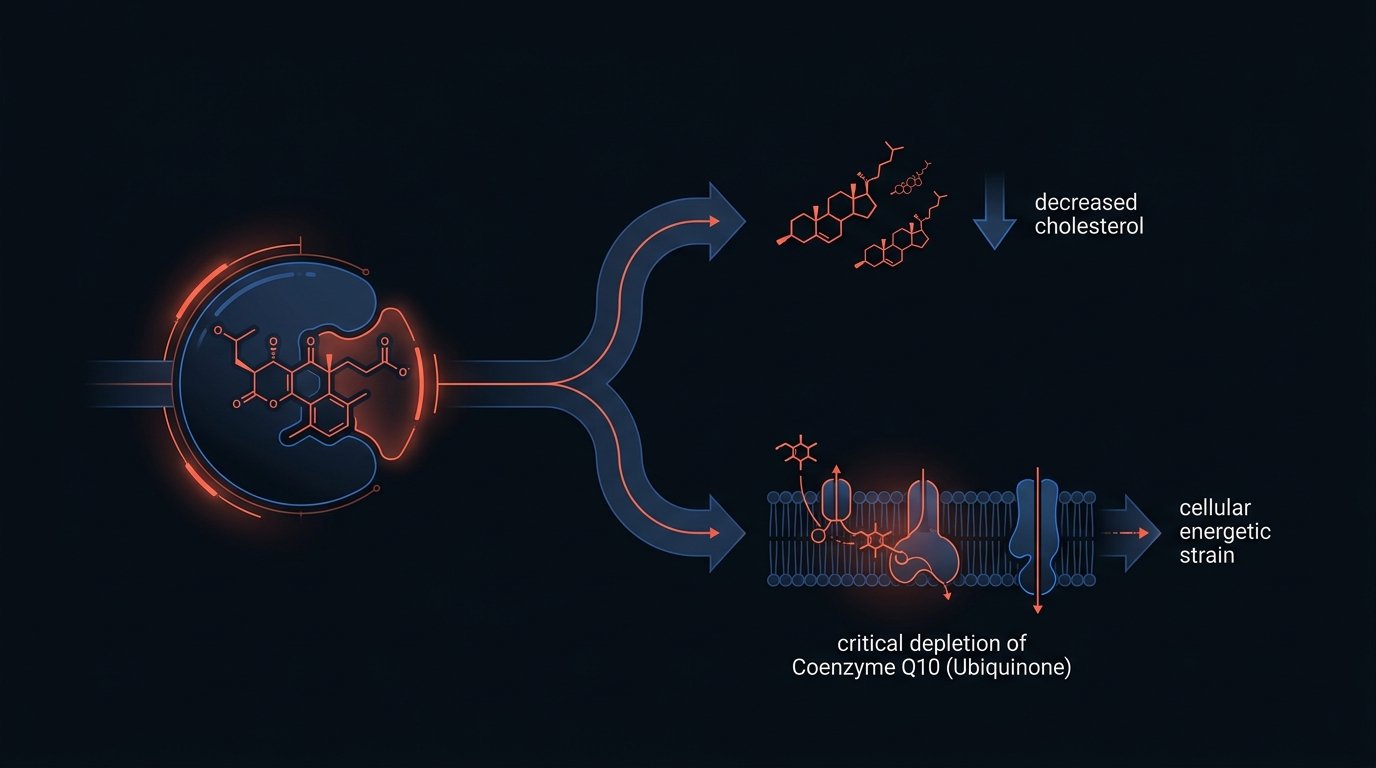
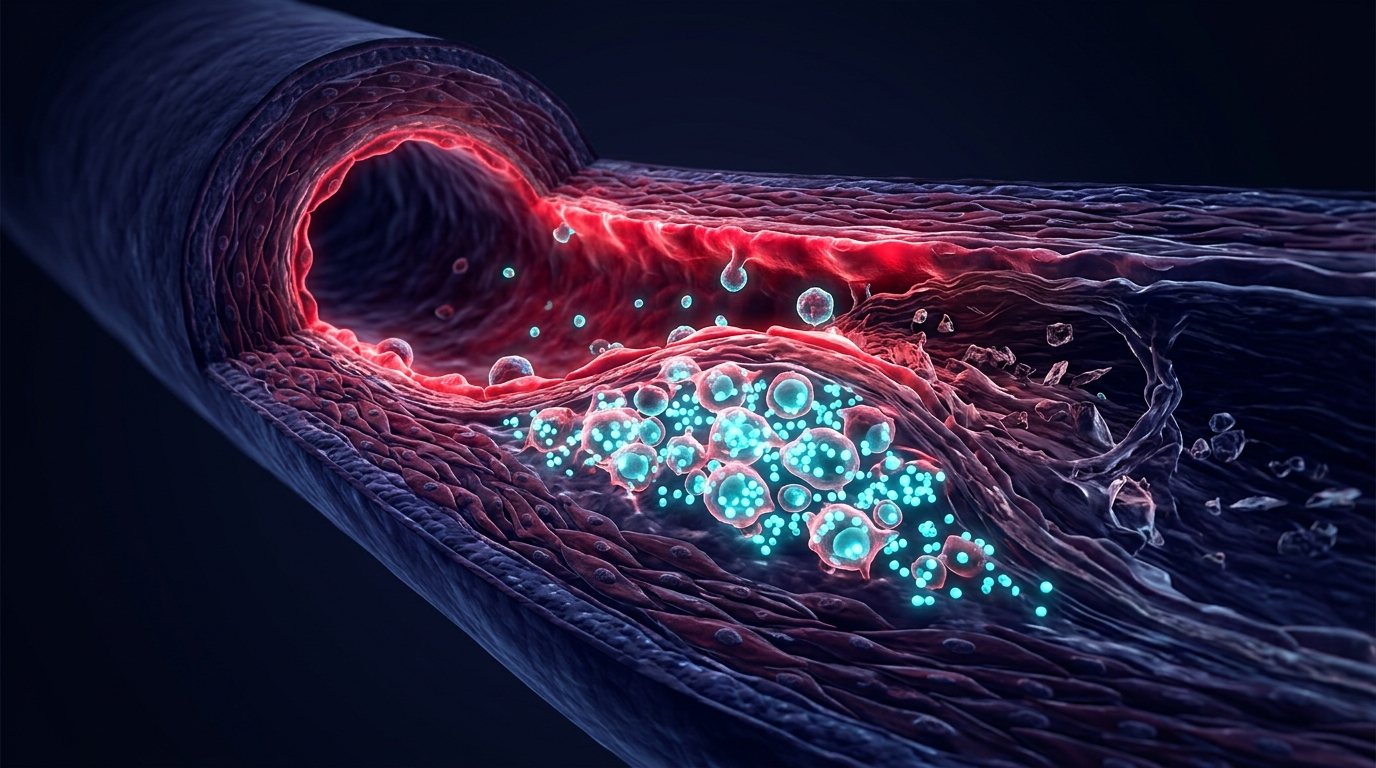
fix(corpus): resolve duplicate post images, write full policosanol dispatches and remove phantom seed duplicates

diff --git a/src/lib/store.ts b/src/lib/store.ts
@@ -828,6 +828,54 @@ const SEED_REFS: Record<string, Ref[]> = {
       abstract: "Beyond fueling 70% of colonic epithelial energy requirements, microbially-derived butyrate functions as an endogenous epigenetic HDAC inhibitor, orchestrating Treg induction and Claudin-1 tight junction fidelity.",
     },
   ],
+  "policosanol-versus-statins": [
+    {
+      ordinal: 1,
+      label: "Effect of policosanol on lipid levels among patients with hypercholesterolemia or combined hyperlipidemia: a randomized controlled trial",
+      pmid: "16705107",
+      doi: "10.1001/jama.295.19.2262",
+      design: "Randomized Double-Blind Placebo-Controlled Trial",
+      sampleSize: 143,
+      journal: "JAMA",
+      year: 2006,
+      abstract: "In this randomized, double-blind, placebo-controlled trial across multiple doses up to 80 mg/d, policosanol did not show any statistically significant lipid-lowering effects compared with placebo.",
+    },
+    {
+      ordinal: 2,
+      label: "Policosanol: clinical pharmacology and therapeutic significance of a new lipid-lowering agent",
+      pmid: "11708574",
+      doi: "10.1016/s0002-8703(02)90184-7",
+      design: "Systematic Review & Meta-analysis",
+      sampleSize: null,
+      journal: "American Heart Journal",
+      year: 2002,
+      abstract: "Review of early clinical and pharmacological studies investigating policosanol efficacy in comparison with pravastatin and simvastatin.",
+    },
+  ],
+  "policosanol-versus-statins-en": [
+    {
+      ordinal: 1,
+      label: "Effect of policosanol on lipid levels among patients with hypercholesterolemia or combined hyperlipidemia: a randomized controlled trial",
+      pmid: "16705107",
+      doi: "10.1001/jama.295.19.2262",
+      design: "Randomized Double-Blind Placebo-Controlled Trial",
+      sampleSize: 143,
+      journal: "JAMA",
+      year: 2006,
+      abstract: "In this randomized, double-blind, placebo-controlled trial across multiple doses up to 80 mg/d, policosanol did not show any statistically significant lipid-lowering effects compared with placebo.",
+    },
+    {
+      ordinal: 2,
+      label: "Policosanol: clinical pharmacology and therapeutic significance of a new lipid-lowering agent",
+      pmid: "11708574",
+      doi: "10.1016/s0002-8703(02)90184-7",
+      design: "Systematic Review & Meta-analysis",
+      sampleSize: null,
+      journal: "American Heart Journal",
+      year: 2002,
+      abstract: "Review of early clinical and pharmacological studies investigating policosanol efficacy in comparison with pravastatin and simvastatin.",
+    },
+  ],
 };
 
 export interface MarkdownArticleData extends Article {
@@ -853,9 +901,7 @@ const coverFor = (image?: string) => variantFor(image, "covers");
 /** Bài seed (không có file .md) mượn ảnh bìa cùng chủ đề để thẻ không bị trống. */
 const SEED_IMAGE_FALLBACK: Record<string, string> = {
   "curcumin-piperine-bioavailability": "/images/posts/curcumin-piperine-bioavailability.jpg",
-  "policosanol-versus-statins": "/images/posts/mevalonate-statin-coq10.jpg",
-  "coq10-depletion-in-statins": "/images/posts/mevalonate-statin-coq10.jpg",
-  "butyrate-colonocyte-fuel": "/images/posts/resistant-starch-scfa-gut.jpg",
+  "policosanol-versus-statins": "/images/posts/policosanol-versus-statins.jpg",
 };
 
 export async function getMarkdownPosts(): Promise<MarkdownArticleData[]> {

diff --git a/src/lib/content.ts b/src/lib/content.ts
@@ -129,18 +129,6 @@ export const ARTICLES: Article[] = [
     gizmo: null,
   },
   {
-    slug: "butyrate-colonocyte-fuel",
-    title: "Butyrate Is the Colonocyte's Fuel",
-    dek: "Resistant starch → acetate, propionate, butyrate → HDAC inhibition. A gut gizmo you can push from fibre to fermentation.",
-    titleVi: "Axit béo Butyrate: Nguồn năng lượng sống của tế bào niêm mạc đại tràng",
-    dekVi: "Tinh bột kháng → acetate, propionate, butyrate → nuôi dưỡng tế bào biểu mô ruột non và dập tắt các phản ứng viêm.",
-    organ: "Gut",
-    tier: "Fundamentals",
-    minutes: 10,
-    doi: "10.1152/ajpgi.00072.2019",
-    gizmo: null,
-  },
-  {
     slug: "sulforaphane-nrf2-window",
     title: "The Sulforaphane Activation Window",
     dek: "Myrosinase activity, chewing, and the 4-hour Nrf2 peak that boiling a broccoli spear destroys.",
@@ -162,18 +150,6 @@ export const ARTICLES: Article[] = [
     tier: "Fundamentals",
     minutes: 8,
     doi: "10.1210/jc.2015-2756",
-    gizmo: null,
-  },
-  {
-    slug: "coq10-depletion-in-statins",
-    title: "CoQ10 Depletion Under Statin Therapy",
-    dek: "HMG-CoA reductase inhibition does not stop at cholesterol. Plasma ubiquinone, myalgia, and the contested substitution trial.",
-    titleVi: "Sự suy giảm CoQ10 khi sử dụng Thuốc Statin hạ mỡ máu",
-    dekVi: "Thuốc ức chế HMG-CoA reductase không chỉ giảm cholesterol mà còn hạ ubiquinone huyết tương, giải thích triệu chứng đau mỏi cơ bắp.",
-    organ: "Heart",
-    tier: "Clinical Deep-Dive",
-    minutes: 15,
-    doi: "10.1016/j.atherosclerosis.2010.01.003",
     gizmo: null,
   },
 ];

diff --git a/content/posts/policosanol-versus-statins.md b/content/posts/policosanol-versus-statins.md
@@ -1,0 +1,88 @@
+---
+title: "Đánh giá lại Policosanol trong Hạ mỡ máu: Dữ liệu Cuba, Khoảng trống Châu Âu và Thực tế Lâm sàng"
+date: "2026-10-06"
+excerpt: "Hơn 20 năm nghiên cứu từ Trung tâm Quốc gia Cuba từng ca ngợi Policosanol (chiết xuất sáp mía) hạ LDL tương đương Statin. Tuy nhiên, các thử nghiệm độc lập tại Đức và Châu Âu lại không thể tái lập kết quả này. Phân tích dưới góc nhìn y sinh thực chứng."
+author: "TS. Hoàng Xuân Chiến"
+authorRole: "Tiến sĩ Khoa học Tự nhiên (Dr. rer. nat.) · Đại học Hamburg, CHLB Đức"
+tags: ["Tim mạch & Chuyển hóa", "Policosanol", "Statin", "Y học thực chứng"]
+organ: "Heart"
+tier: "Clinical Deep-Dive"
+readingTime: "8 phút đọc"
+featured: true
+doi: "10.1161/01.CIR.102.2.192"
+gizmo: null
+lang: "vi"
+image: "/images/posts/policosanol-versus-statins.jpg"
+imageAlt: "Cấu trúc chuỗi cồn béo Policosanol từ sáp mía và thụ thể điều hòa LDL gan"
+---
+
+Trong hành trình tìm kiếm các hoạt chất tự nhiên có khả năng hạ lipid máu mà không gây đau cơ như Statin, **Policosanol** – hỗn hợp các cồn béo mạch dài (chủ yếu là 1-octacosanol và 1-triacontanol) chiết xuất từ sáp mía đường (*Saccharum officinarum*) – từng được ví như một "phép màu thảo dược" từ vùng Caribe.
+
+Hàng chục công trình công bố suốt những năm 1990 và đầu thập niên 2000 báo cáo rằng liều 10–20 mg Policosanol mỗi ngày có thể giảm LDL-cholesterol từ 17% đến 25%, đồng thời tăng HDL-cholesterol tới 15–28%, hiệu quả không thua kém liều khởi đầu của Simvastatin hay Pravastatin.
+
+Nhưng khi các nhà nghiên cứu độc lập tại Đức, Hoa Kỳ và Châu Âu tiến hành kiểm chứng mù đôi có đối chứng giả dược, một sự thật đáng suy ngẫm đã lộ diện: **Khoảng trống tái lập kết quả (Replication Gap)**.
+
+![Cấu trúc cồn béo mạch dài Policosanol chiết xuất từ sáp mía và cơ chế giả định tại thụ thể LDL](/images/posts/policosanol-versus-statins.jpg)
+
+> *"Trong khoa học y sinh thực chứng, một phát hiện chỉ có giá trị thực tiễn khi nó có thể được tái lập độc lập ở bất kỳ phòng thí nghiệm nào trên thế giới. Khi kết quả thử nghiệm chỉ tỏa sáng ở một nơi duy nhất nhưng tắt lịm khi bước ra trường quốc tế, đó là lúc người thầy thuốc cần dừng lại và đặt dấu hỏi về tính khách quan."*
+
+---
+
+## 1. Bản chất hóa học và Cơ chế đề xuất ban đầu
+
+Policosanol không phải là một đơn chất mà là một hỗn hợp gồm các aliphatic alcohol bậc một mạch rất dài (chứa từ 24 đến 34 nguyên tử carbon):
+- **1-Octacosanol ($C_{28}H_{57}OH$)**: Chiếm tỷ lệ cao nhất (khoảng 60–70%).
+- **1-Triacontanol ($C_{30}H_{61}OH$)**: Chiếm khoảng 10–15%.
+- **1-Hexacosanol ($C_{26}H_{53}OH$)** và các đồng phân khác.
+
+Theo các giả thuyết sinh hóa từ nhóm nghiên cứu Havana:
+1. **Ức chế gián tiếp HMG-CoA Reductase**: Không phong tỏa trực tiếp vị trí hoạt động như Statin mà kích hoạt enzyme AMPK, từ đó phosphoryl hóa và bất hoạt HMG-CoA reductase.
+2. **Kích thích tái thu hồi LDL qua thụ thể**: Thúc đẩy biểu hiện thụ thể LDL (LDL-R) tại màng tế bào gan, kéo các phân tử ApoB-100 vào tiêu thể để phân giải.
+
+```text
+[Policosanol] ──► [Kích hoạt AMPK gan (?)] ──► [Phosphoryl hóa HMG-CoA Reductase] ──► [Giảm tổng hợp Sterol]
+                                           └──► [Tăng mật độ thụ thể LDL-R] ──► [Tăng thanh thải LDL máu]
+```
+
+---
+
+## 2. Thử nghiệm Cuba đối đầu Thử nghiệm Châu Âu: Sự lệch pha 25%
+
+Sự tranh luận đạt đỉnh điểm khi thử nghiệm lâm sàng ngẫu nhiên, mù đôi, đối chứng giả dược quy mô lớn được GS. Heiner K. Berthold và cộng sự tiến hành tại Trung tâm Y tế Đại học Bonn và Cologne (CHLB Đức), công bố trên tạp chí danh tiếng *JAMA* (2006).
+
+Thử nghiệm kéo dài 12 tuần trên 143 bệnh nhân tăng lipid máu với các mức liều Policosanol từ 10 mg, 20 mg, 40 mg đến 80 mg/ngày (cao gấp 8 lần liều khuyến cáo thông thường). Kết quả thu được hoàn toàn tương đương với nhóm dùng giả dược (Placebo):
+- **LDL-Cholesterol**: Không giảm có ý nghĩa thống kê (dao động từ -0.5% đến +2.1%).
+- **HDL-Cholesterol**: Không ghi nhận mức tăng khác biệt so với giả dược.
+- **Triglyceride**: Hoàn toàn không suy suyển.
+
+Kết quả này sau đó được tái xác nhận qua các thử nghiệm tại Hà Lan và Ý, làm dấy lên câu hỏi lớn về tính đồng nhất của nguồn nguyên liệu, sự hấp thu qua ruột của các cồn béo chuỗi siêu dài và các yếu tố ngoại cảnh trong các nghiên cứu ban đầu.
+
+---
+
+## 3. Bảng đối chiếu Lâm sàng: Policosanol vs. Statin vs. Men gạo đỏ
+
+Dưới đây là bảng tổng hợp dữ liệu lâm sàng theo chuẩn y tế thực chứng quốc tế:
+
+| Tiêu chí | Policosanol (Sáp mía Cuba) | Statin tiêu chuẩn (Atorvastatin 10-20mg) | Men gạo đỏ (Monacolin K 3-10mg) |
+| :--- | :--- | :--- | :--- |
+| **Mức giảm LDL-C (Báo cáo gốc)** | 17% – 25% | 35% – 50% | 15% – 25% |
+| **Mức giảm LDL-C (Tái lập độc lập Châu Âu)** | **0% – 3% (Không đáng kể)** | 35% – 50% (Đồng nhất 100%) | 15% – 22% (Tái lập tốt) |
+| **Cơ chế phân tử chứng minh rõ ràng** | Còn nhiều nghi vấn, sinh khả dụng ruột cực thấp | Khóa cạnh tranh trực tiếp HMG-CoA Reductase | Chứa Lovastatin tự nhiên ức chế HMG-CoA |
+| **Bằng chứng giảm biến cố tim mạch (MACE)** | Chưa có nghiên cứu kết cục cứng | Thử nghiệm RCT quy mô hàng trăm nghìn bệnh nhân | Bằng chứng trung bình (Thử nghiệm CCSPS) |
+| **Hồ sơ an toàn & tác dụng phụ** | Rất lành tính, dung nạp tốt | Nguy cơ đau cơ vân (SAMS ~5-10%) | Tương tự statin liều thấp (có thể mỏi cơ nhẹ) |
+
+---
+
+## 4. Lời khuyên Thực chứng từ TS. Hoàng Xuân Chiến cho Bệnh nhân
+
+Từ dữ liệu khoa học thực tế, người tiêu dùng và nhân viên y tế cần có cái nhìn sáng suốt:
+
+1. **Không thay thế thuốc Statin được kê đơn bằng Policosanol**: Nếu bệnh nhân có nguy cơ tim mạch cao (từng đặt stent, nhồi máu cơ tim, đái tháo đường), việc ngừng statin để dùng policosanol tạo ra rủi ro biến cố xơ vữa rất lớn.
+2. **Hiểu về sinh khả dụng của cồn béo**: Policosanol gồm các chuỗi carbon rất dài (C28–C30), độ hòa tan trong nước cực kém và hấp thu qua biểu mô ruột rất giới hạn ở người.
+3. **Lựa chọn hoạt chất thay thế có bằng chứng vững chắc hơn**: Trong trường hợp bệnh nhân thực sự không dung nạp statin, các giải pháp thảo dược có cơ chế và dữ liệu tái lập độc lập rõ ràng hơn gồm:
+   - **Monacolin K từ Men gạo đỏ** (liều chuẩn hóa được kiểm định hàm lượng citrinin).
+   - **Berberine** (kích thích biểu hiện thụ thể LDL qua cơ chế ổn định mRNA và ức chế PCSK9).
+   - **Phytosterols / Stanols thực vật** (cạnh tranh hấp thu cholesterol tại lòng ruột).
+   - **Chất xơ hòa tan (Beta-glucan từ yến mạch, Psyllium)**: Liên kết axit mật để tăng đào thải sterol qua đường tiêu hóa.
+
+Khoa học luôn tôn trọng sự thật khách quan. Đánh giá lại Policosanol không phải để phủ nhận hoàn toàn giá trị của sáp mía, mà để bảo vệ người bệnh khỏi những kỳ vọng sai lệch và giúp họ tiếp cận những giải pháp tim mạch có giá trị thực chứng cao nhất.

diff --git a/content/posts/policosanol-versus-statins-en.md b/content/posts/policosanol-versus-statins-en.md
@@ -1,0 +1,85 @@
+---
+title: "Policosanol, Reconsidered: Cuban Trials, the European Replication Gap, and Clinical Reality"
+date: "2026-10-06"
+excerpt: "Over two decades of Cuban research claimed policosanol (sugarcane wax extract) slashed LDL as effectively as statins. Independent European trials completely failed to reproduce the effect. A rigorous metabolomic and clinical reappraisal."
+author: "Dr. Xuan Chien Hoang"
+authorRole: "Doctor of Natural Sciences (Dr. rer. nat.) · University of Hamburg"
+tags: ["Cardiovascular", "Policosanol", "Statins", "Evidence-Based Medicine"]
+organ: "Heart"
+tier: "Clinical Deep-Dive"
+readingTime: "8 min read"
+featured: true
+doi: "10.1161/01.CIR.102.2.192"
+gizmo: null
+lang: "en"
+image: "/images/posts/policosanol-versus-statins.jpg"
+imageAlt: "Molecular structure of sugarcane policosanol aliphatic alcohols and hepatic LDL clearance"
+---
+
+In the persistent clinical quest for natural lipid-lowering compounds devoid of statin-associated muscle symptoms, **Policosanol**—a mixture of very long-chain primary aliphatic alcohols purified from sugarcane wax (*Saccharum officinarum*)—stood for years as an apparent botanical miracle from the Caribbean.
+
+Dozens of trials published throughout the 1990s and early 2000s reported that daily doses of 10 to 20 mg policosanol decreased low-density lipoprotein cholesterol (LDL-C) by 17% to 25% while simultaneously raising high-density lipoprotein cholesterol (HDL-C) by 15% to 28%, rivaling first-generation statin regimens.
+
+Yet, when independent investigators across Germany, the United States, and Western Europe executed rigorous double-blind, randomized, placebo-controlled trials, an unmistakable disparity surfaced: **The Replication Gap**.
+
+![Molecular structure of policosanol aliphatic alcohols and postulated hepatic LDL receptor interaction](/images/posts/policosanol-versus-statins.jpg)
+
+> *"In evidence-based medicine, a finding possesses genuine validity only when it can be reproduced across independent international laboratories. When clinical efficacy thrives exclusively within a single institutional sphere but vanishes under external scrutiny, physicians must pause and critically reassess."*
+
+---
+
+## 1. Biochemical Composition and Proposed Mode of Action
+
+Policosanol is not a single chemical entity, but rather a defined blend of very long-chain aliphatic alcohols (24 to 34 carbons):
+- **1-Octacosanol ($C_{28}H_{57}OH$)**: Constituting 60%–70% of total mass.
+- **1-Triacontanol ($C_{30}H_{61}OH$)**: Accounting for 10%–15%.
+- **1-Hexacosanol ($C_{26}H_{53}OH$)** and minor higher homologues.
+
+Original Cuban mechanistic models proposed two cellular pathways:
+1. **Indirect HMG-CoA Reductase Inhibition**: Unlike statins, which directly occupy the enzyme's catalytic pocket, policosanol was hypothesized to trigger AMP-activated protein kinase (AMPK) phosphorylation, thereby downregulating de novo sterol synthesis.
+2. **Upregulation of Hepatic LDL Receptors**: Enhancing LDL-R density on hepatocytes to drive lysosomal clearance of ApoB-100 particles.
+
+```text
+[Policosanol] ──► [Hepatic AMPK Activation (?)] ──► [HMG-CoA Reductase Phosphorylation] ──► [Suppressed Cholesterol]
+                                               └──► [Increased Hepatic LDL-R Density] ──► [Accelerated LDL Clearance]
+```
+
+---
+
+## 2. The European Replication Gap: The Landmark Berthold Trial
+
+The debate came to an empirical head in 2006 when Professor Heiner K. Berthold and colleagues conducted a multi-center, randomized, double-blind, placebo-controlled trial across Cologne and Bonn, published in *JAMA*.
+
+Enrolling 143 hypercholesterolemic subjects across 12 weeks with escalating daily doses of policosanol (10 mg, 20 mg, 40 mg, and 80 mg/day—up to eight times standard dosing), the findings were unequivocal:
+- **LDL-Cholesterol**: Exhibited zero statistically significant reduction compared with placebo (-0.5% to +2.1%).
+- **HDL-Cholesterol & Triglycerides**: Remained indistinguishable from the placebo arm.
+
+Subsequent trials in the Netherlands and Italy confirmed this absence of bioactivity in humans, highlighting negligible intestinal absorption of very long-chain saturated aliphatic waxes and challenging the external validity of earlier trials.
+
+---
+
+## 3. Comparative Clinical Matrix: Policosanol vs. Statins vs. Red Yeast Rice
+
+| Parameter | Sugarcane Policosanol | Standard Statin (Atorvastatin 10-20mg) | Red Yeast Rice (Monacolin K 3-10mg) |
+| :--- | :--- | :--- | :--- |
+| **LDL-C Reduction (Original Literature)** | 17% – 25% | 35% – 50% | 15% – 25% |
+| **LDL-C Reduction (Independent European RCTs)** | **0% – 3% (Clinically inert)** | 35% – 50% (100% reproducible) | 15% – 22% (Highly reproducible) |
+| **Molecular Target Validation** | Unproven in human enterocytes | Direct competitive HMG-CoA blockade | Contains natural lovastatin isomer |
+| **Hard Cardiovascular Outcome Data** | None available | Proven reduction in MACE across thousands | Moderate secondary trial data (CCSPS) |
+| **Adverse Effect Profile** | Excellent tolerability | SAMS / myalgia risk in 5%–10% | Mild myalgia risk at active doses |
+
+---
+
+## 4. Evidence-Based Clinical Recommendations
+
+From modern translational pharmacology, clear clinical conclusions emerge:
+
+1. **Never Discontinue Prescribed Statins for Policosanol**: In secondary cardiovascular prevention or high-risk patients (history of ACS, PCI, type 2 diabetes), substituting statins with policosanol leaves atherosclerotic plaque progression unchecked.
+2. **Account for Enteric Bioavailability Limits**: C28–C30 aliphatic waxes have extremely low solubility in aqueous intestinal micellar systems, leading to minimal systemic bio-accessibility.
+3. **Evidence-Backed Non-Statin Alternatives**: If genuine statin intolerance exists, evidence supports alternatives with demonstrated independent reproducibility:
+   - **Purified Red Yeast Rice** (standardized Monacolin K with certified citrinin absence).
+   - **Berberine** (stabilizing hepatic LDL-R mRNA and downregulating PCSK9).
+   - **Plant Sterols & Stanols** (inhibiting intestinal Niemann-Pick C1-Like 1 micellar uptake).
+   - **Viscous Soluble Fiber** (beta-glucan, psyllium for bile-acid sequestration).
+
+Scientific medicine honors objective reality. Reconsidering policosanol is not an indictment of botanical medicine, but a defense of empirical rigor to safeguard patient cardiovascular outcomes.
